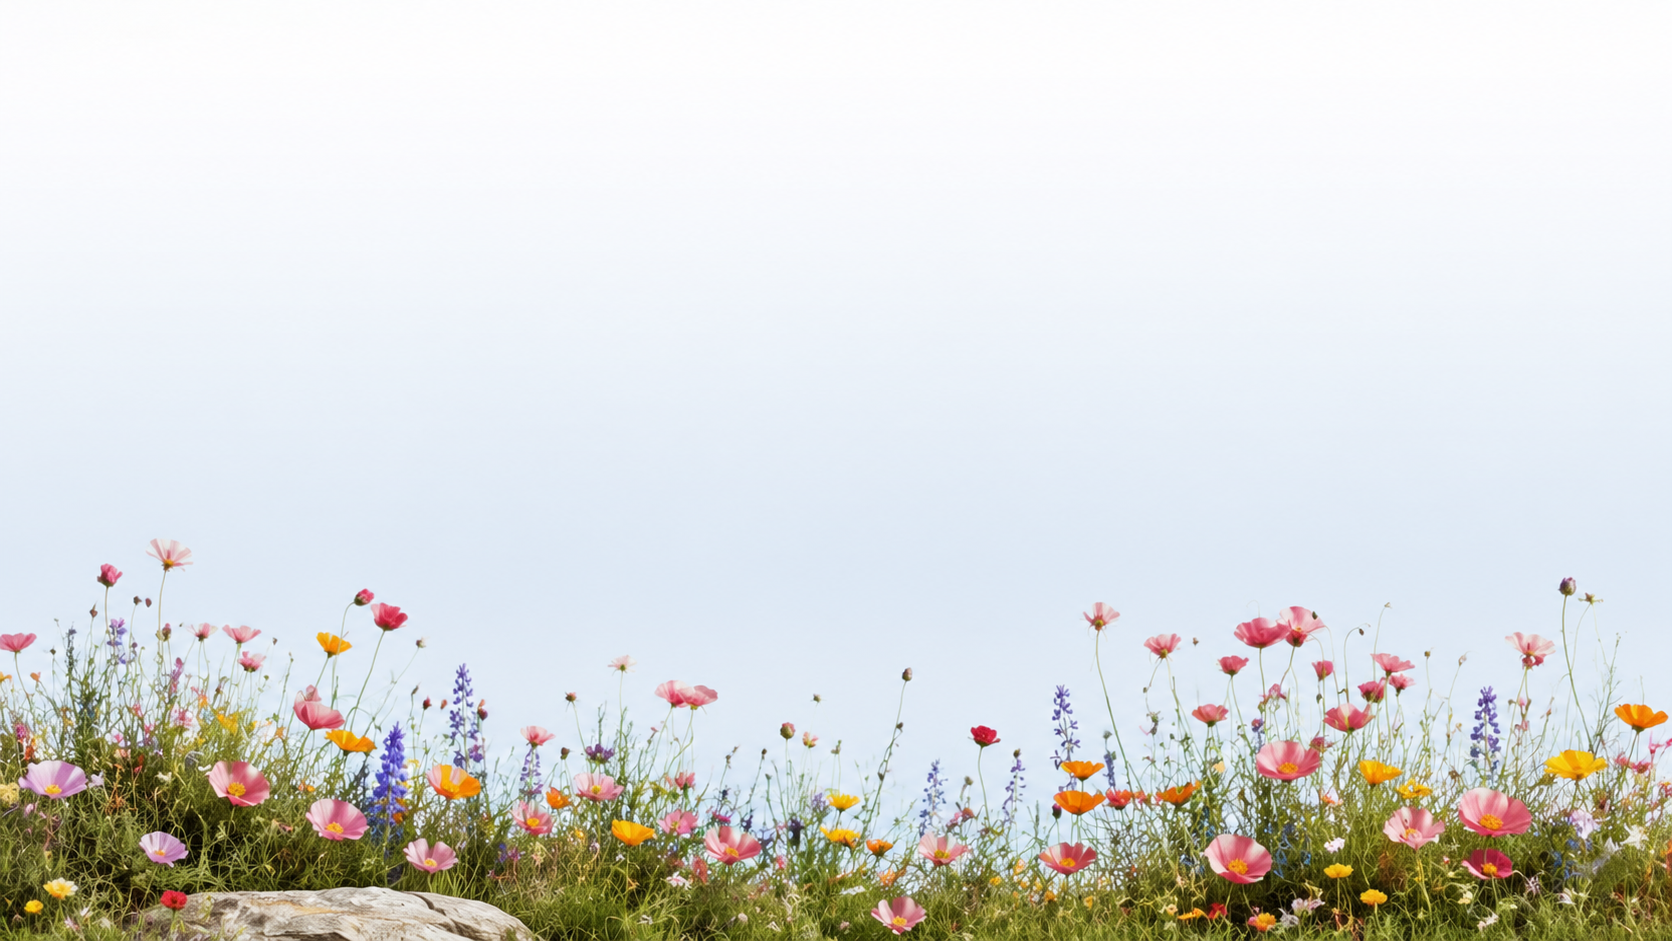
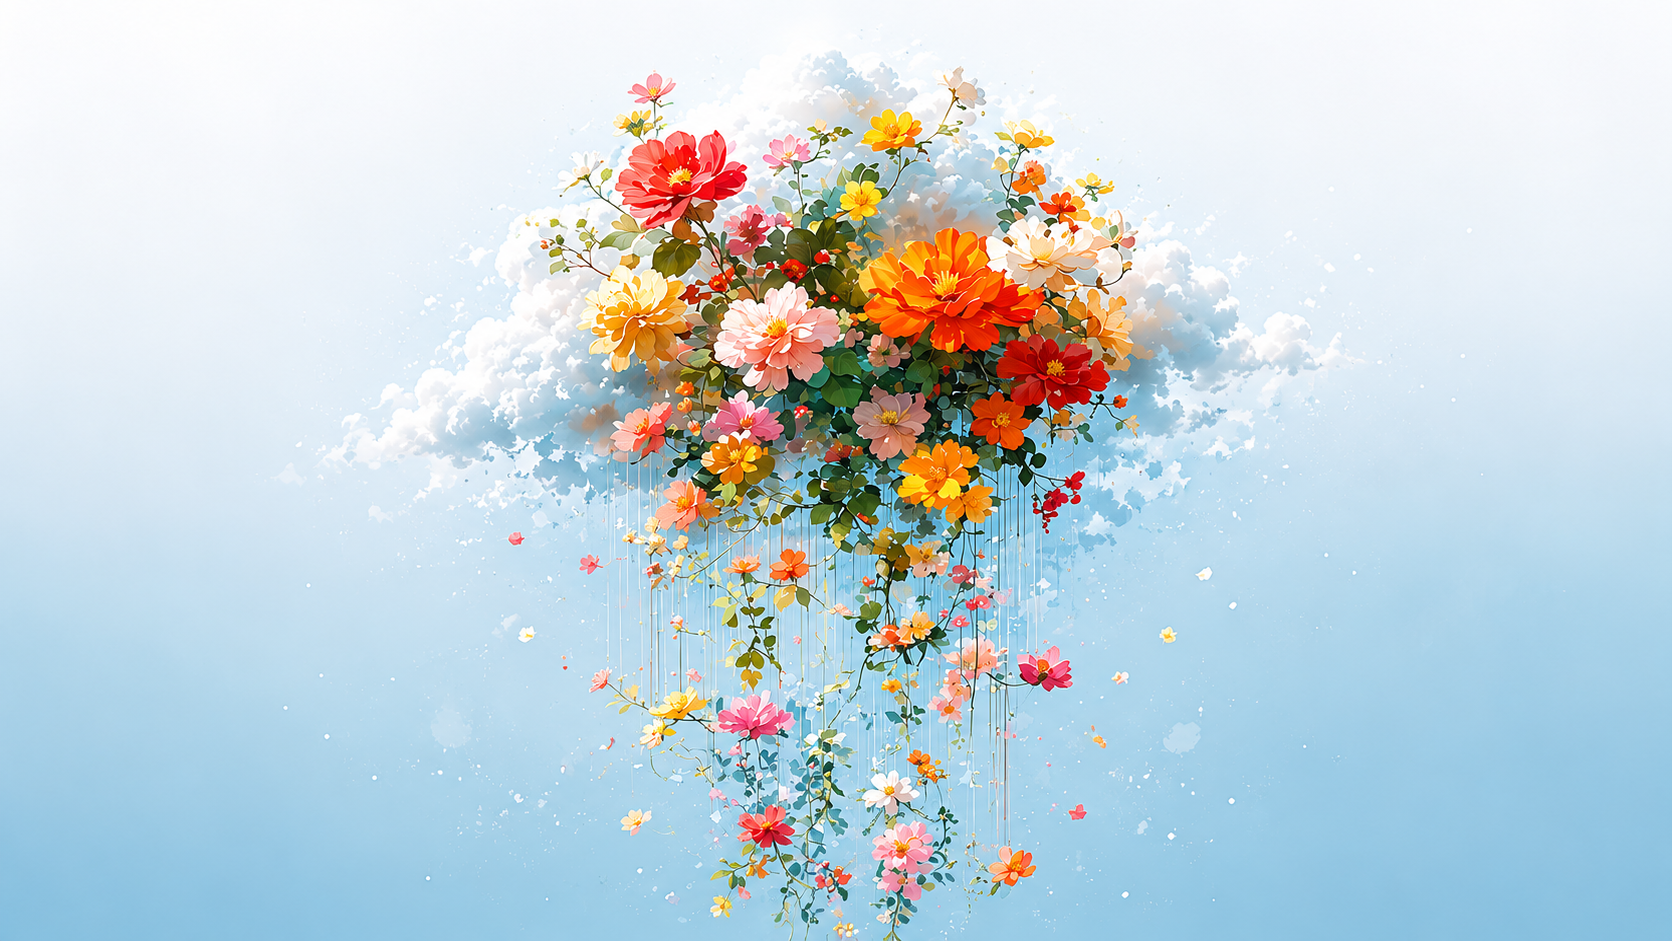
fix: heading z:1 + panel z:3 below canvas z:20 — all dissolved together
- Heading: paddingTop 15vh from top, z:1
- Panel+CTA: paddingTop 30vh, z:3
- Canvas: z:20 covers both
- hero-content word reveal: z:30 stays above canvas
- New hero background image

diff --git a/components/HeroSection.js b/components/HeroSection.js
@@ -207,13 +207,10 @@ export default function HeroSection({ videoRef }) {
       <HeroCanvas heroRef={heroRef} />
 
 
-      {/* Content — pinned to first viewport, exact source: hero-header is position:absolute height:100vh */}
-      <div style={{ position: "absolute", top: 0, left: 0, width: "100%", height: "100vh", zIndex: 10, display: "flex", flexDirection: "column", alignItems: "center", justifyContent: "center" }}>
-
-      {/* Logo */}
+      {/* Logo — above canvas */}
       <div
         style={{
-          position: "absolute", top: 32, left: 40, zIndex: 10,
+          position: "absolute", top: 32, left: 40, zIndex: 30,
           fontFamily: FONT, fontWeight: 600, fontSize: 15,
           letterSpacing: "0.15em", color: "#1C1C1A",
         }}
@@ -221,14 +218,9 @@ export default function HeroSection({ videoRef }) {
         DRIP UP
       </div>
 
-      {/* Main content column */}
-      <div
-        style={{
-          position: "relative", zIndex: 10, width: "100%", maxWidth: 1200,
-          padding: "0 40px", display: "flex", flexDirection: "column",
-          alignItems: "center", gap: 24,
-        }}
-      >
+      {/* Heading — z:1, below canvas so it gets dissolved */}
+      <div style={{ position: "absolute", top: 0, left: 0, width: "100%", height: "100vh", zIndex: 1, display: "flex", flexDirection: "column", alignItems: "center", justifyContent: "flex-start", paddingTop: "15vh", pointerEvents: "none" }}>
+        <div style={{ width: "100%", maxWidth: 1200, padding: "0 40px", display: "flex", flexDirection: "column", alignItems: "center" }}>
         <h1
           ref={headingRef}
           style={{
@@ -267,6 +259,12 @@ export default function HeroSection({ videoRef }) {
             ))}
           </span>
         </h1>
+        </div>
+      </div>{/* end heading wrapper */}
+
+      {/* Panel + CTA — z:3, above image/overlay but below canvas, gets dissolved */}
+      <div style={{ position: "absolute", top: 0, left: 0, width: "100%", height: "100vh", zIndex: 3, display: "flex", flexDirection: "column", alignItems: "center", justifyContent: "flex-start", paddingTop: "30vh" }}>
+      <div style={{ width: "100%", maxWidth: 1200, padding: "0 40px", display: "flex", flexDirection: "column", alignItems: "center", gap: 24 }}>
 
         {/* Glass panel */}
         <div
@@ -378,8 +376,8 @@ export default function HeroSection({ videoRef }) {
             </svg>
           </div>
         </a>
-      </div>{/* end main content column */}
-      </div>{/* end content wrapper */}
+      </div>{/* end panel inner column */}
+      </div>{/* end panel wrapper */}
 
       {/* hero-content — exact source: position absolute, bottom 0, height 125vh */}
       <div
@@ -393,7 +391,7 @@ export default function HeroSection({ videoRef }) {
           display: "flex",
           alignItems: "center",
           justifyContent: "center",
-          zIndex: 10,
+          zIndex: 30,
           padding: "0 40px",
           textAlign: "center",
         }}

diff --git a/components/HeroCanvas.js b/components/HeroCanvas.js
@@ -155,7 +155,7 @@ export default function HeroCanvas({ heroRef }) {
         left: 0,
         width: "100%",
         height: "100%",
-        zIndex: 2,
+        zIndex: 20,
         pointerEvents: "none",
       }}
     />
